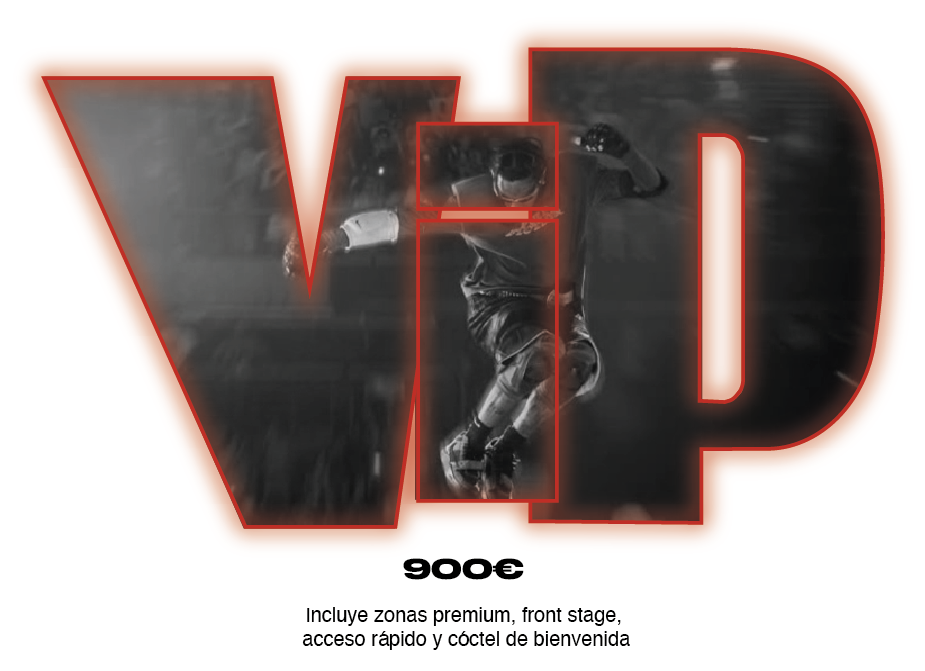
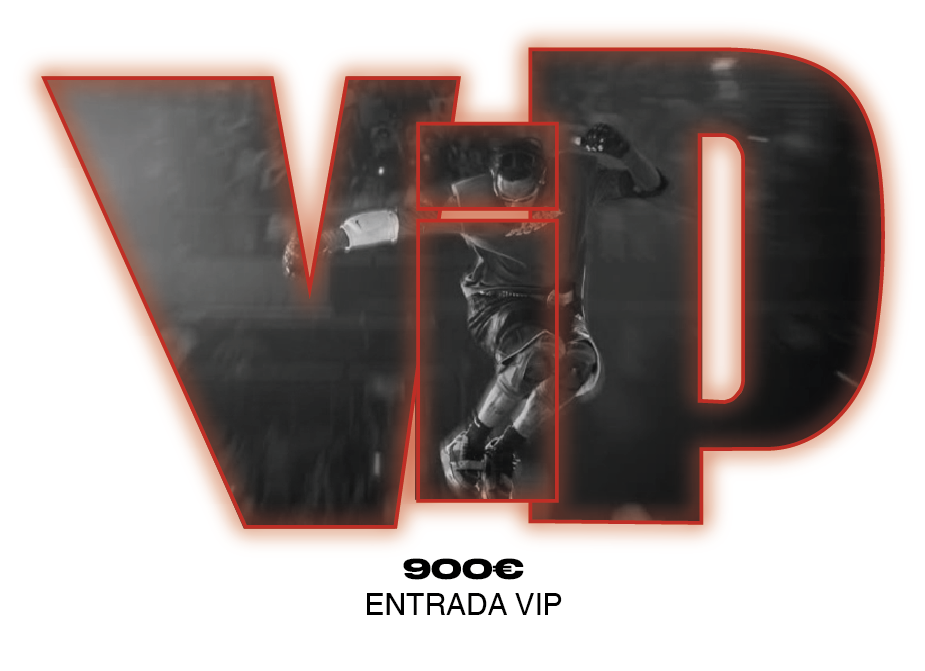
tarjetas tipos de entradas responsive

Changed region(s): [[0.333, 0.8644, 0.6962, 0.9836]]

diff --git a/entradas.html b/entradas.html
@@ -76,53 +76,70 @@
             </div>
 
             <section class="cards">
-                <div class="card-types">
+                <div id="card-types">
                     <!-- entrada general -->
-                    <img class="card-desk" src="media/img/card-vip.webp" alt="">
-                    <img class="card-movil" src="media/img/card-vip-movil.webp" alt="">
+                     <div class="entrada-INFO">
+                         <div class="card-types">
+                             <img class="card-desk" src="media/img/card-pass.webp" alt="">
+                             <img class="card-movil" src="media/img/card-pass-movil.webp" alt="">
+                         </div>
+                        
+                        <div class="card-info">
+                            <div class="info-pass">
+                                <ul>
+                                    <li>Acceso general a todos los escenarios</li>
+                                    <li>Barras, food trucks y zonas de descanso</li>
+                                    <li>Pantallas gigantes y zonas comunes</li>
+                                    <li>Servicios, puntos de agua y lockers</li>
+                                    <li>Acceso a la zona After Party</li>
+                                </ul>
+                            </div>
+                        </div>
+                     </div>
                     
                     <!-- entrada vip -->
-                    <img class="card-desk" src="media/img/card-vip.webp" alt="">
-                    <img class="card-movil" src="media/img/card-vip-movil.webp" alt="">
-
+                    <div class="entrada-INFO">
+                        <div class="card-types">
+                            <img class="card-desk" src="media/img/card-vip.webp" alt="">
+                            <img class="card-movil" src="media/img/card-vip-movil.webp" alt="">
+                        </div>
+                        
+                        <div class="card-info">
+                            <div class="info-vip">
+                                <ul>
+                                    <p><strong><span>Incluye todo lo de la entrada PASS, más:</span></strong></p>
+                                    <li>Front zone en el Main Stage</li>
+                                    <li>Entrada rápida (fast track)</li>
+                                    <li>Zonas premium para descansar sin perderte nada</li>
+                                    <li>Copa / cóctel de bienvenida</li>
+                                    <li>Baños exclusivos</li>
+                                </ul>
+                            </div>        
+                        </div>
+                    </div>
+                    
                     <!-- entrada full experience -->
-                    <img class="card-desk" src="media/img/card-vip.webp" alt="">
-                    <img class="card-movil" src="media/img/card-vip-movil.webp" alt="">
+                    <div class="entrada-INFO">
+                        <div class="card-types">
+                            <img class="card-desk" src="media/img/card-max.webp" alt="">
+                            <img class="card-movil" src="media/img/card-max-movil.webp" alt="">
+                        </div>
+   
+                       <div class="card-info">
+                           <div class="info-max">
+                               <ul>
+                                   <p><strong><span>Incluye todo lo de la entrada VIP, y aun más:</span></strong></p>
+                                   <li>Meet & greet con artistas seleccionados</li>
+                                   <li>Merch exclusivo RAVIA (edición limitada)</li>
+                                   <li>Acceso backstage selecto / zona VIP XL</li>
+                                   <li>Paquete fotográfico + lanyard exclusivo</li>
+                                   <li>Entrada extendida a áreas especiales y after privados</li>
+                               </ul>
+                           </div>  
+                        </div>  
+                    </div>
+
                 </div>
-                <div class="card-info">
-                    <div class="info-pass">
-                        <ul>
-                            <li>Acceso general a todos los escenarios</li>
-                            <li>Barras, food trucks y zonas de descanso</li>
-                            <li>Pantallas gigantes y zonas comunes</li>
-                            <li>Servicios, puntos de agua y lockers</li>
-                            <li>Acceso a la zona After Party</li>
-                        </ul>
-                    </div>
-
-                    <div class="info-vip">
-                        <ul>
-                            <p>Incluye todo lo de la entrada PASS, más:</p>
-                            <li>Front zone en el Main Stage</li>
-                            <li>Entrada rápida (fast track)</li>
-                            <li>Zonas premium para descansar sin perderte nada</li>
-                            <li>Copa / cóctel de bienvenida</li>
-                            <li>Baños exclusivos</li>
-                        </ul>
-                    </div>
-
-                    <div class="info-max">
-                        <ul>
-                            <p>Incluye todo lo de la entrada VIP, y aun más:</p>
-                            <li>Meet & greet con artistas seleccionados</li>
-                            <li>Merch exclusivo RAVIA (edición limitada)</li>
-                            <li>Acceso backstage selecto / zona VIP XL</li>
-                            <li>Paquete fotográfico + lanyard exclusivo</li>
-                            <li>Entrada extendida a áreas especiales y after privados</li>
-                        </ul>
-                    </div>
-                </div>
-
             </section>
             
 

diff --git a/styles.css b/styles.css
@@ -1336,18 +1336,23 @@ section.gallery {
 
 }
 
-.card-types {
-    display: flex;
-    justify-content: center;
-    padding: 30px;
+.cards {
+    margin-top: 20px;
 }
 
-.card-types .card-desk {
-    width: 30%;
+#card-types {
+    /* background-color: aqua; */
+    display: flex;
+    flex-direction: row;
 }
 
 .card-types .card-movil {
     display: none;
+}
+.entrada-INFO {
+    display: flex;
+    flex-direction: column;
+    align-items: center;
 }
 
 .card-info {
@@ -1355,10 +1360,12 @@ section.gallery {
     align-items: center;
     justify-content: space-between;
     /* gap: 33px; */
-    text-align: justify;
     padding: 56px;
     font-size: 0.8rem;
-    line-height: 1.6;
+}
+
+.entrada-INFO span {
+    color: var(--color-primario);
 }
 
 @media (max-width: 1120px) {
@@ -1381,18 +1388,23 @@ section.gallery {
 
 @media (max-width: 780px) {
     .card-types {
-    flex-direction: column;
-    justify-content: center;
-    align-items: center;
-}
+        flex-direction: column;
+        justify-content: center;
+        align-items: center;
+    }
 
-.card-types .card-desk {
-    display: none;
-}
+    .card-types .card-desk {
+        display: none;
+    }
 
-.card-types .card-movil {
-    display: block;
-}
+    .card-types .card-movil {
+        display: block;
+    }
+
+    #card-types {
+        flex-direction: column;
+    }
+
 
 }
 
